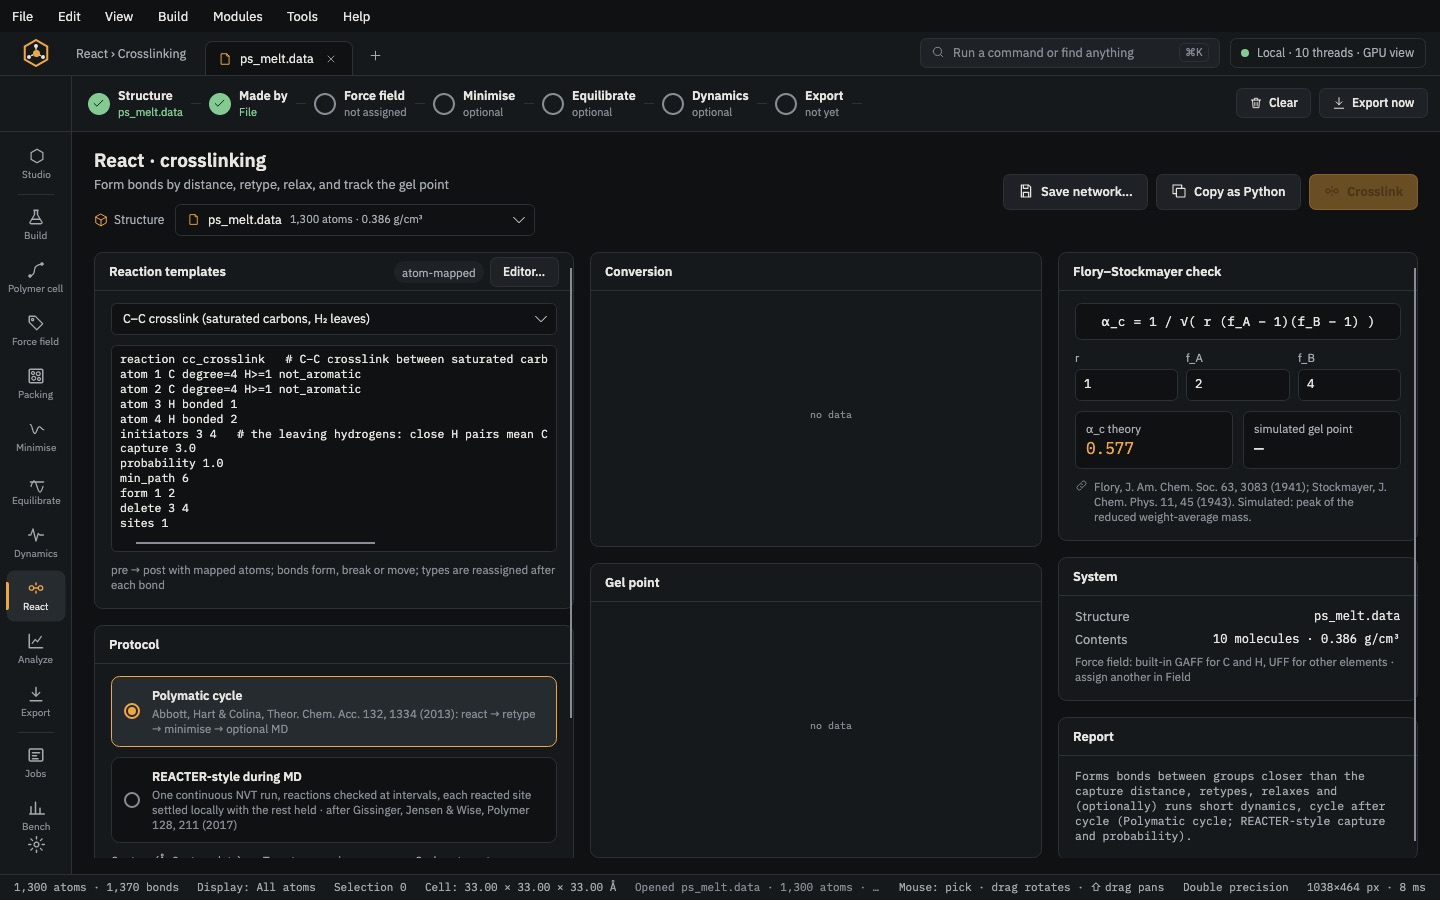
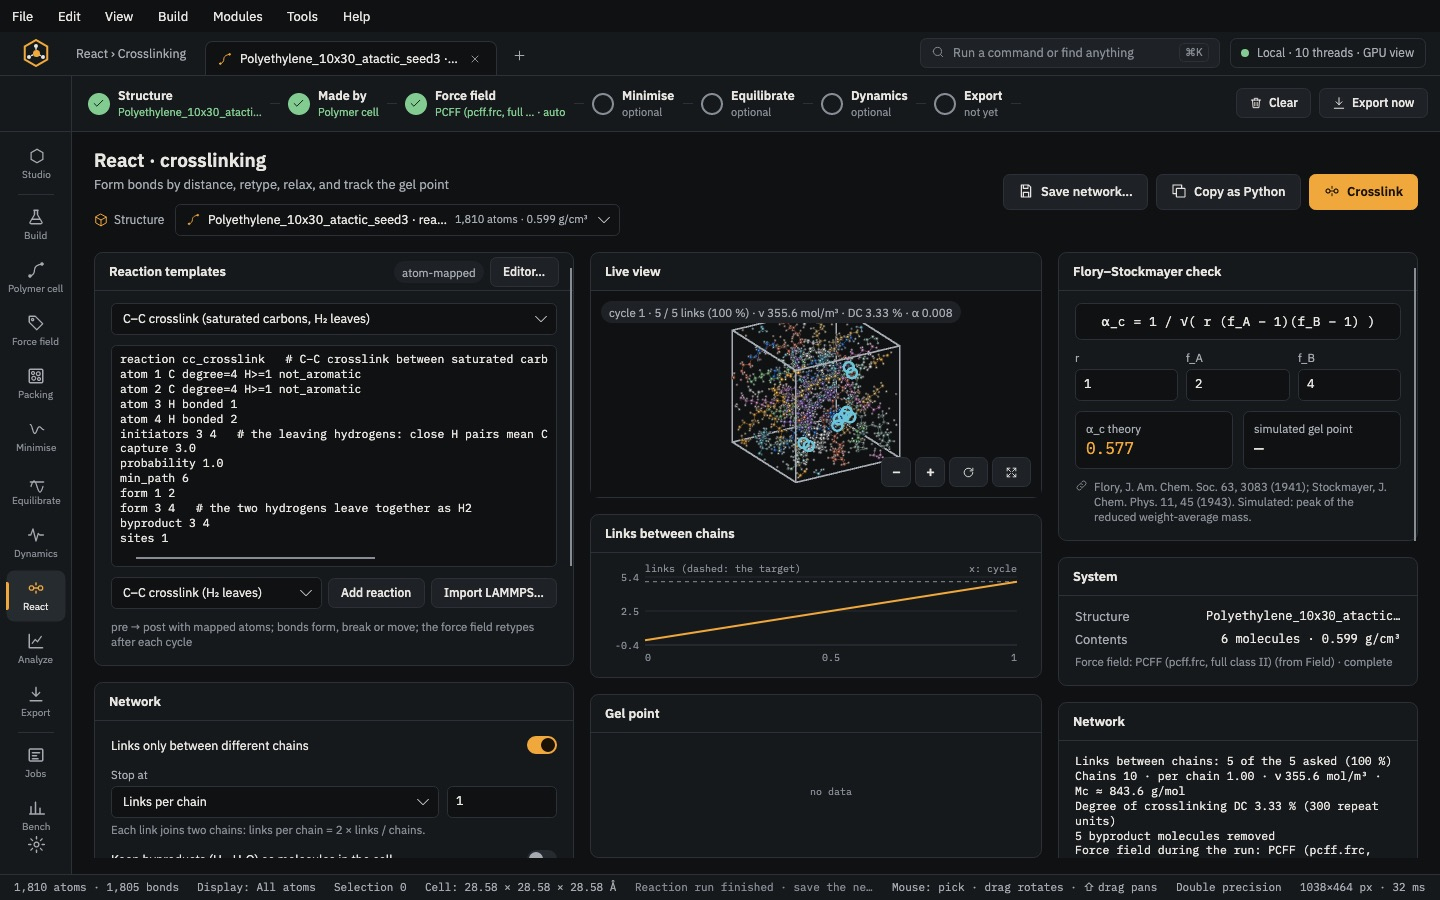
Manual: crosslinking pipeline rewritten for the new React (force field, between chains, targets, byproducts, several reactions, sulfur donors, live view, fix bond/react) with a new screenshot

diff --git a/docs/manual/index.html b/docs/manual/index.html
@@ -188,14 +188,35 @@ dialog img{max-width:96vw;max-height:94vh;display:block;border-radius:6px;cursor
 
 <section id="p-cure">
   <h2>Pipeline 3 · Crosslinking and cure</h2>
-  <p class="lede">This route vulcanises a rubber, cures an epoxy or crosslinks a melt. Bonds form by distance and atom types are reassigned after each cycle.</p>
+  <p class="lede">This route vulcanises a rubber, cures an epoxy, or crosslinks chains through a crosslinker such as ENR with PBS or MAH. It uses your own force field throughout.</p>
   <ol class="flow">
-    <li><div>Build the cell as in pipeline 1, or open it from a file. Assign a force field.</div></li>
-    <li><div><b>React.</b> Pick a reaction template, such as the built-in <span class="ui">C–C crosslink (saturated carbons, H₂ leaves)</span>, or open <span class="ui">Editor…</span> to write your own. In the editor you draw pre and post states with mapped atoms, and it shows the equivalent reaction SMARTS.</div></li>
-    <li><div>Choose the <b>Protocol</b>. <i>Polymatic cycle</i> (Abbott, Hart &amp; Colina 2013) runs react → retype → minimise → optional MD. <i>REACTER-style during MD</i> checks reactions at intervals during one continuous run.</div></li>
-    <li><div>Press <span class="ui">Crosslink</span>. The Conversion and Gel point charts fill as cycles run. The Flory–Stockmayer card compares the simulated gel point with α<sub>c</sub> from theory. If a cycle fails, the completed cycles are kept.</div></li>
-    <li><div>Save the network, then Minimise → Equilibrate → Export.</div></li>
+    <li><div>Build the cell as in pipeline 1, or open it from a file. Assign the force field in the <b>Force field</b> step. React types, charges and parameterises the network with it after every cycle and assigns it to the result.</div></li>
+    <li><div><b>React › Reaction templates.</b> Pick a preset:
+      <ul>
+        <li>C–C crosslink;</li>
+        <li>sulfur cure;</li>
+        <li>peroxide;</li>
+        <li>silane;</li>
+        <li>epoxy–amine;</li>
+        <li><i>ENR + carboxylic acid</i>: the acid O bonds to the tertiary epoxide carbon and the ring opens to a β-hydroxy ester, with no water;</li>
+        <li><i>ENR + MAH</i>: an OH opens the anhydride to a half-ester acid, which then opens an ENR epoxide (ENR–MAH–ENR, ENR–MAH–PBS);</li>
+        <li><i>esterification</i>: COOH + OH gives an ester and H₂O.</li>
+      </ul>
+      <span class="ui">Add reaction</span> runs several reactions together, either automatically (closest pairs first) or by relative weights. <span class="ui">Import LAMMPS…</span> reads any fix bond/react pre/post/map set as a reaction.</div></li>
+    <li><div>For a sulfur cure, use <b>Sulfur donors</b>: H–Sₓ–H with x fixed or spread over 1–8, dosed in phr. Each donor that reaches two chains becomes a C–Sₓ–C bridge.</div></li>
+    <li><div><b>Network.</b>
+      <ul>
+        <li><span class="ui">Links only between different chains</span>: a crosslinker cannot close back onto the chain it is already on.</li>
+        <li><b>Stop at</b>: a conversion, a number of links, links per chain, ν (mol/m³), Mc (g/mol) or DC % (2 × links / monomers).</li>
+        <li><b>Byproducts</b> (H₂, H₂O): keep them in the cell or remove them.</li>
+      </ul></div></li>
+    <li><div>Choose the protocol: <i>Polymatic cycle</i> or <i>REACTER-style during MD</i>. <span class="ui">Auto capture</span> widens the capture distance when no pair is found.</div></li>
+    <li><div>Press <span class="ui">Crosslink</span>. The live view shows each chain in its own colour with the new links highlighted. The links plot shows progress against the target, and <b>Network</b> reports target vs achieved, ν, Mc, DC, loops and the force field before and after.</div></li>
+    <li><div>To run the reaction in LAMMPS, use <span class="ui">Write fix bond/react files…</span>. It writes pre/post templates and map files cut from your cell and typed with your force field, a data file holding every type the reaction creates, and an input with the fix. Run <code>lmp -in react.in</code>.</div></li>
   </ol>
+  <div class="note">CAPS checks the force field. PCFF's main table gives epoxide ring angles general values (104.5–111°), about 108 kcal/mol of strain per ENR epoxide, and the Force field step says so. For epoxidised rubber, GAFF (cx/op) or OPLS 2005 (C3T/O3T) describe the ring properly.</div>
+  <figure><button type="button" aria-label="Enlarge"><img src="img/16_react.jpg" alt="React page after crosslinking PCFF polyethylene" loading="lazy"></button>
+    <figcaption><b>React.</b> Ten PCFF polyethylene chains crosslinked between chains to one link per chain. The live view keeps each chain's colour and circles the links. Network: 5 of 5 links, DC 3.33 %, PCFF re-assigned.</figcaption></figure>
 </section>
 
 <section id="p-surface">
@@ -395,9 +416,7 @@ dialog img{max-width:96vw;max-height:94vh;display:block;border-radius:6px;cursor
 
 <section id="f-react">
   <h2>React</h2>
-  <figure><button type="button" aria-label="Enlarge"><img src="img/16_react.jpg" alt="React crosslinking page" loading="lazy"></button>
-    <figcaption><b>React · crosslinking.</b> Templates, protocol, conversion, gel point and the Flory–Stockmayer check.</figcaption></figure>
-  <p>The template text shows its rules in full: which atoms react, the capture distance, probability, minimum path, and which bonds form and which atoms leave. The full order is in <a href="#p-cure">Pipeline 3</a>.</p>
+  <p>The template text shows its rules in full: which atoms react, the capture distance, probability, minimum path, which bonds form, which atoms leave and which leave as a byproduct. The page is shown in <a href="#p-cure">Pipeline 3</a>.</p>
 </section>
 
 <section id="f-analyze">
